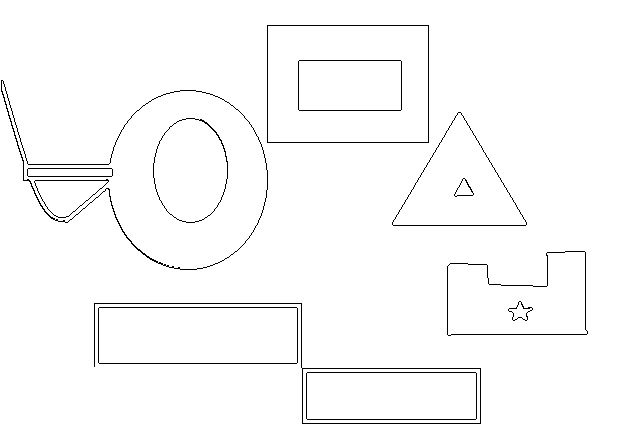
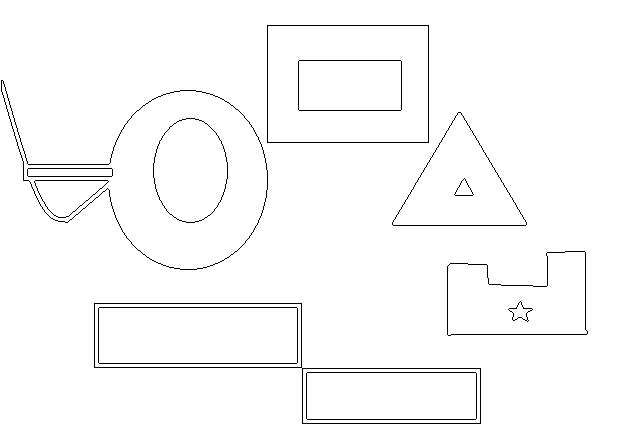
CounterTracking できた

diff --git a/kadai4/contourTracking.cpp b/kadai4/contourTracking.cpp
@@ -4,29 +4,31 @@ using namespace std;
 
 cv::Mat contourTracking(cv::Mat image)
 {
-	int rows = image.rows;
-	int cols = image.cols;
-	cout << rows << ", " << cols << endl;
+//	int rows = image.rows;
+//	int cols = image.cols;
+//	cout << rows << ", " << cols << endl;
 	unsigned char pre_value = 255;
 	unsigned char value = 255;
 	copyMakeBorder(image, image, 1, 1, 1, 1, BORDER_CONSTANT, Scalar(255));
+	int rows = image.rows;
+	int cols = image.cols;
+	cout << rows << ", " << cols << endl;
+	//imwrite("data2.png", image);
 	Mat mapping = Mat(rows, cols, CV_8UC1);
 	mapping = 255;
 
 	int old_dir = 0, new_dir = 0;
-	Point clockwise[8] = { Point(-1, -1), Point(0, -1), Point(1, -1), 
-							Point(1, 0), Point(1, 1), 
-							Point(0, 1), Point(-1, 1), 
+	Point clockwise[8] = { Point(-1, 1), Point(0, 1), Point(1, 1), 
+							Point(1, 0), Point(1, -1), 
+							Point(0, -1), Point(-1, -1), 
 							Point(-1, 0) };
 
 	//raster scan
 	for (int y = 0; y < rows; y++) {
 		for (int x = 0; x < cols; x++) {
+			pre_value = value;
 			value = image.at<unsigned char>(Point(x, y));
-
-			if (x != 0 && (pre_value != 0 && value == 0)) {
-				//cout << "start : " << x << ", " << y << endl;
-				//mapping.at<unsigned char>(Point(x, y)) = 0;
+			if (x != 0 && pre_value == 255 && value == 0) {
 
 				Point search = Point(x, y);
 				Point search_tmp = search + clockwise[0];
@@ -39,21 +41,16 @@ cv::Mat contourTracking(cv::Mat image)
 
 				for (i = 0; i < 8; i++) {
 					search_tmp = search + clockwise[(i + new_dir) % 8];
-					if (mapping.at<unsigned char>(search_tmp) == 0) {
-						break;
-					}
 					if (image.at<unsigned char>(search_tmp) == 0) {
 						if (search == Point(x, y) && mapping.at<unsigned char>(search_tmp) == 0) break;
 						mapping.at<unsigned char>(search_tmp) = 0;
 						search = search_tmp; // move
 						old_dir = (i + new_dir) % 8;
 						new_dir = (old_dir + 6) % 8;
-						i = 0;
+						i = -1;
 					}
 				}
 			}
-
-			pre_value = value;
 		}
 	}
 

diff --git a/kadai4/rabeling.cpp b/kadai4/rabeling.cpp
@@ -1,0 +1,21 @@
+#include "rabeling.h"
+using namespace cv;
+using namespace std;
+
+cv::Mat rabeling(cv::Mat image)
+{
+	copyMakeBorder(image, image, 1, 1, 1, 1, BORDER_CONSTANT, Scalar(255));
+	int rows = image.rows;
+	int cols = image.cols;
+	cout << rows << ", " << cols << endl;
+	//imwrite("data2.png", image);
+	Mat mapping = Mat(rows, cols, CV_8UC1);
+	mapping = 255;
+
+	int old_dir = 0, new_dir = 0;
+	Point clockwise[8] = { Point(-1, 1), Point(0, 1), Point(1, 1),
+							Point(1, 0), Point(1, -1),
+							Point(0, -1), Point(-1, -1),
+							Point(-1, 0) };
+	return cv::Mat();
+}

diff --git a/kadai4/rabeling.h b/kadai4/rabeling.h
@@ -1,0 +1,8 @@
+#pragma once
+
+#include<iostream>
+#include<string>
+#include<tuple>
+#include<opencv2\opencv.hpp>
+
+cv::Mat rabeling(cv::Mat image);
